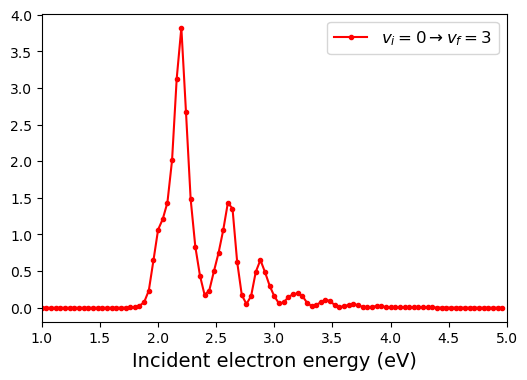
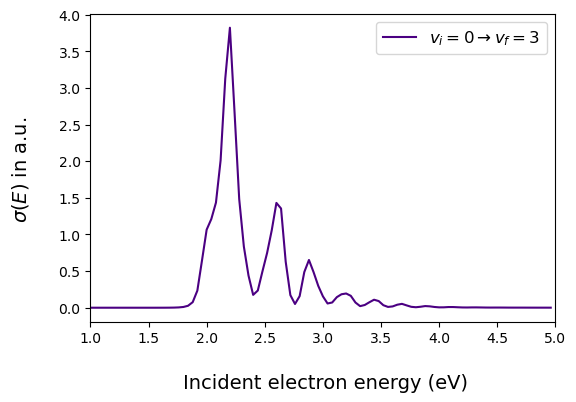
data files updated
Spectrums updated

diff --git a/N2_RVE.py b/N2_RVE.py
@@ -145,8 +145,8 @@ def psisolver():
 
     x, dx, k, dk, N = grid()
     m, m_e, dt, N_tsteps = VARS()
-    PEC_MRCISD = np.loadtxt(PECFILE)
-    potential_i = lambda x: csaps(PEC_MRCISD[:, 0], PEC_MRCISD[:, 1], x, smooth=0.999999)
+    PEC = np.loadtxt(PECFILE)
+    potential_i = lambda x: csaps(PEC[:, 0], PEC[:, 1], x, smooth=0.999999)
 
     print('Solving SE...')
     solver = FGHEVEN(x, potential_i(x)-potential_i(x).min(), m)
@@ -460,10 +460,11 @@ if __name__ == '__main__':
 
         plt.figure(figsize=(6, 4))
         plt.plot((np.array(raw_Ekin))/EV_TO_HARTREE, sigma_flat_array[i*len(raw_Ekin):(i+1)*len(raw_Ekin):1],
-                 '.-r',label = r'$v_i=%s \rightarrow v_f=%s$'%(initial, int(final_vf[i])))
+                 '-',color = 'indigo', label = r'$v_i=%s \rightarrow v_f=%s$'%(initial, int(final_vf[i])))
         plt.legend(loc = 'upper right', fontsize = 12)
         plt.xlim(1.0, 5.0)
-        plt.xlabel('Incident electron energy (eV)', fontsize = 14)
+        plt.xlabel('\n Incident electron energy (eV)', fontsize = 14)
+        plt.ylabel('$\sigma(E)$ in a.u. \n', fontsize = 14)
 
         image_path = os.path.join(pathout, 'N2_RVE_spectrum_%s-%s.png')
         image_name = image_path%(int(initial),int(final_vf[i]))
